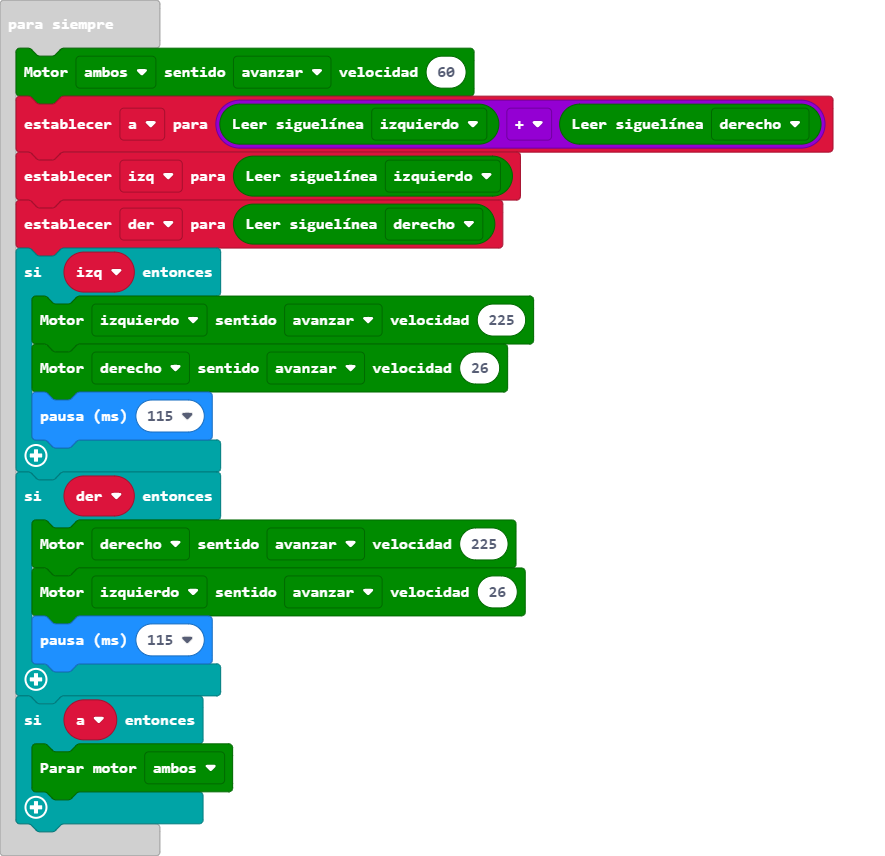
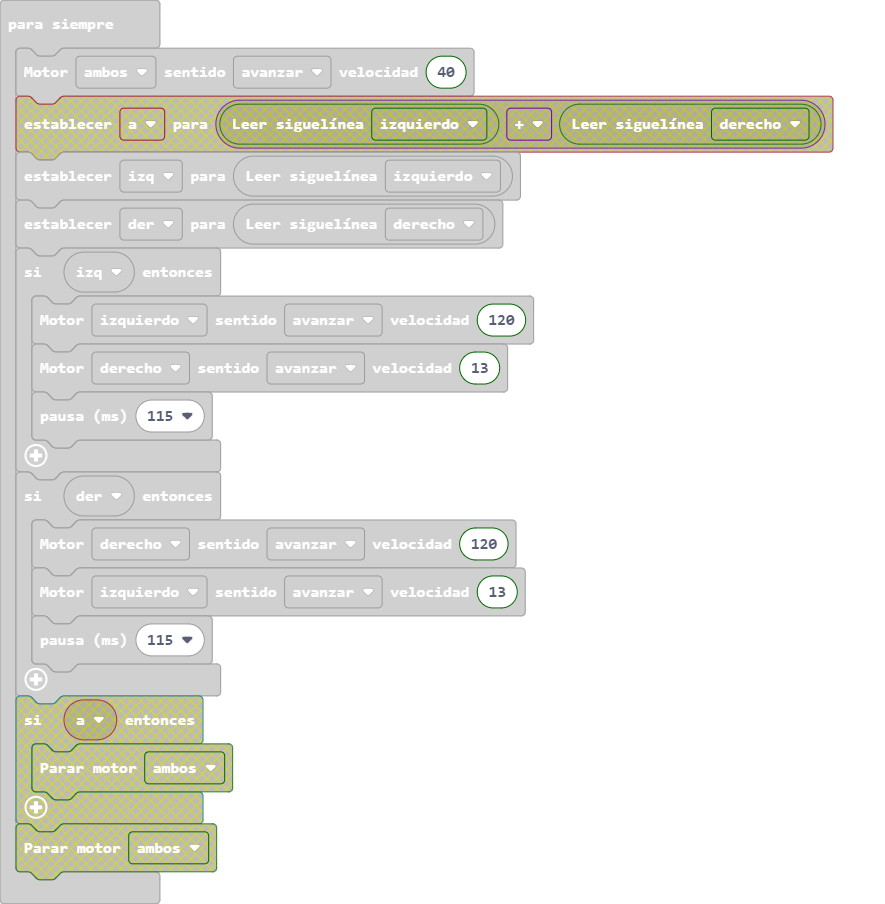
Actualizar main.blocks, main.ts

diff --git a/main.ts b/main.ts
@@ -1,22 +1,17 @@
-let a = 0
 let izq = 0
 let der = 0
 basic.forever(function () {
-    maqueen.motorRun(maqueen.Motors.All, maqueen.Dir.CW, 60)
-    a = maqueen.readPatrol(maqueen.Patrol.PatrolLeft) + maqueen.readPatrol(maqueen.Patrol.PatrolRight)
+    maqueen.motorRun(maqueen.Motors.All, maqueen.Dir.CW, 40)
     izq = maqueen.readPatrol(maqueen.Patrol.PatrolLeft)
     der = maqueen.readPatrol(maqueen.Patrol.PatrolRight)
     if (izq) {
-        maqueen.motorRun(maqueen.Motors.M1, maqueen.Dir.CW, 225)
-        maqueen.motorRun(maqueen.Motors.M2, maqueen.Dir.CW, 26)
+        maqueen.motorRun(maqueen.Motors.M1, maqueen.Dir.CW, 120)
+        maqueen.motorRun(maqueen.Motors.M2, maqueen.Dir.CW, 13)
         basic.pause(115)
     }
     if (der) {
-        maqueen.motorRun(maqueen.Motors.M2, maqueen.Dir.CW, 225)
-        maqueen.motorRun(maqueen.Motors.M1, maqueen.Dir.CW, 26)
+        maqueen.motorRun(maqueen.Motors.M2, maqueen.Dir.CW, 120)
+        maqueen.motorRun(maqueen.Motors.M1, maqueen.Dir.CW, 13)
         basic.pause(115)
-    }
-    if (a) {
-        maqueen.motorStop(maqueen.Motors.All)
     }
 })
